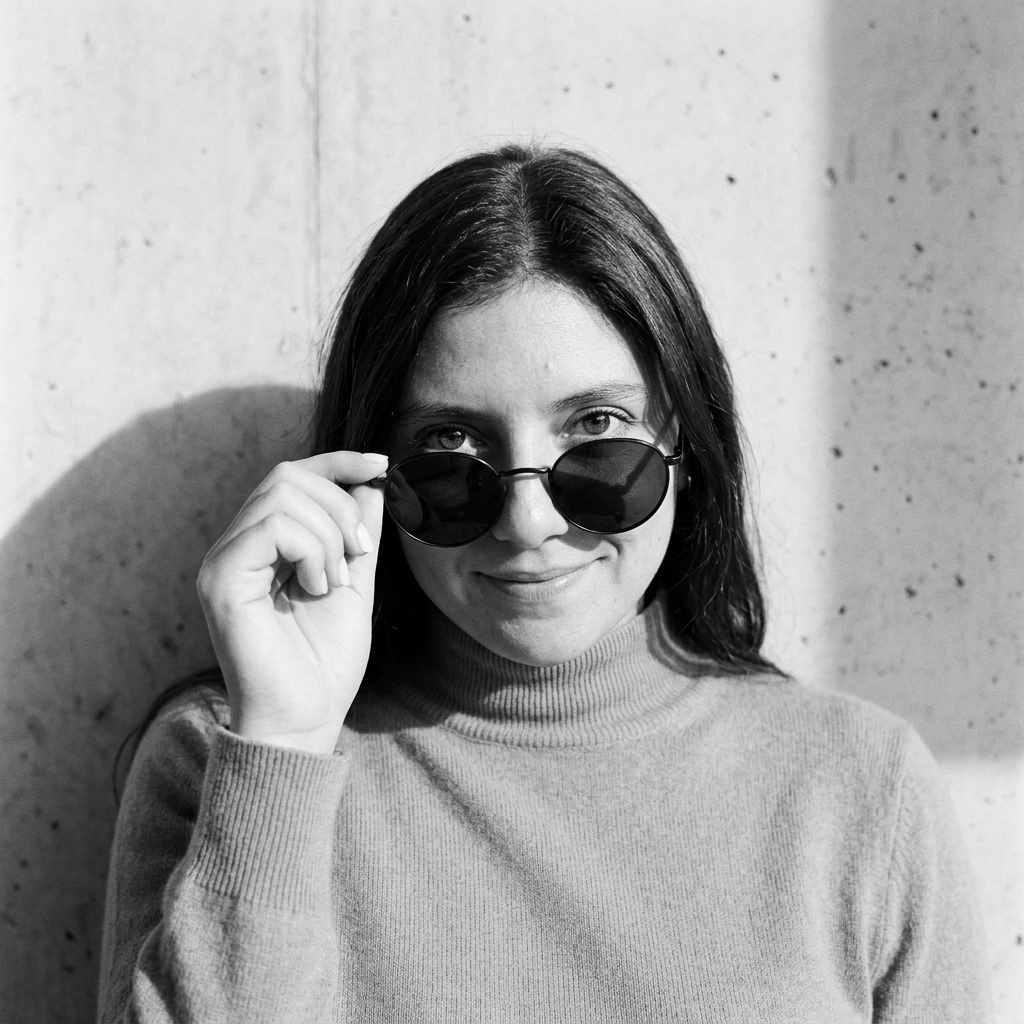
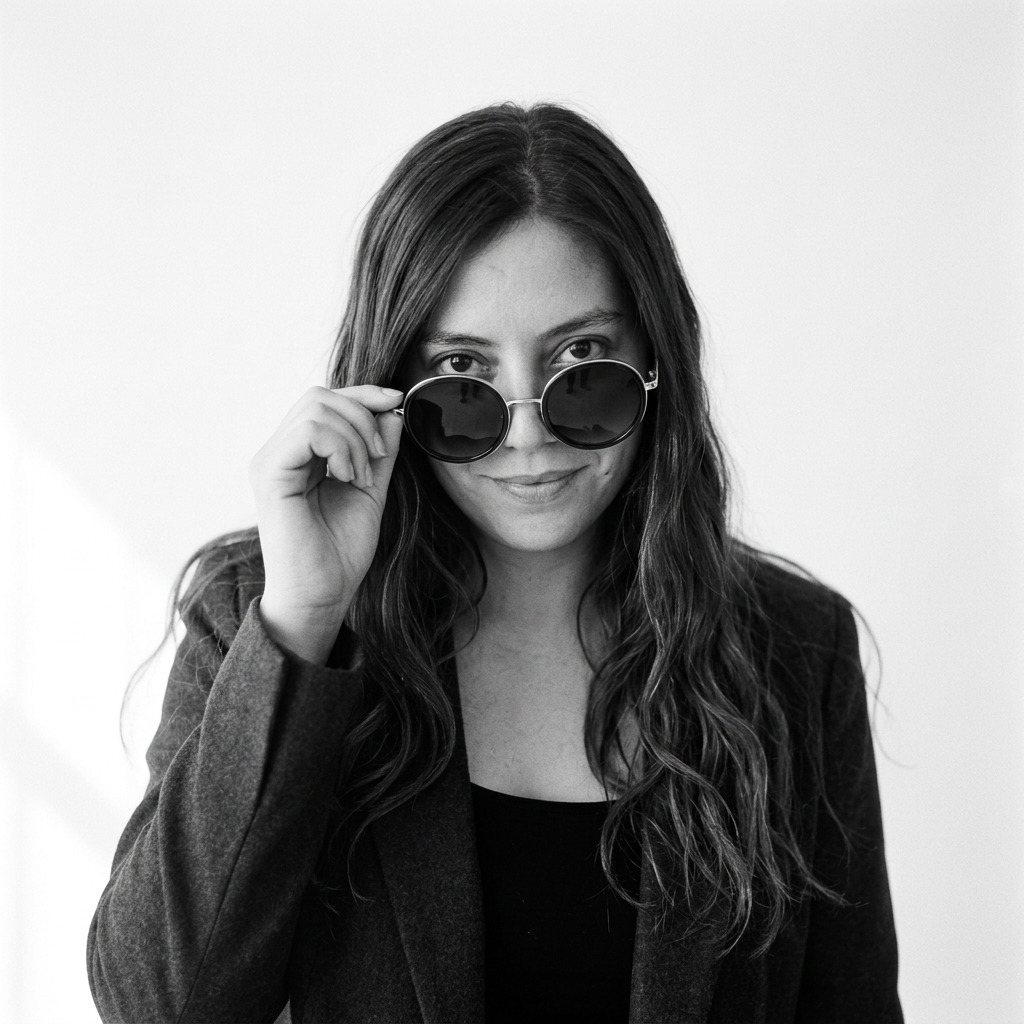
Design: hero card POR LA IGLESIA badge matches sketch layout

diff --git a/index.html b/index.html
@@ -315,7 +315,16 @@
 
             <!-- The Invitation Card -->
             <div class="relative z-10 w-full max-w-md mx-auto bg-white/95 backdrop-blur shadow-2xl border flex flex-col items-center border-gray-200 px-10 py-16 text-center reveal">
-                <p class="font-handwriting text-4xl md:text-5xl text-charcoal mb-8 mt-4">¡Nos casamos!</p>
+                <!-- "¡Nos casamos!" + POR LA IGLESIA badge — layout matching sketch -->
+                <div class="w-full mb-8 mt-2 text-left relative">
+                    <p class="font-handwriting text-4xl md:text-5xl text-charcoal leading-tight mb-1 text-center">¡Nos casamos!</p>
+                    <!-- Badge + underline: aligned to end of text like sketch -->
+                    <div class="flex items-center gap-0 justify-end pr-0">
+                        <div class="flex-1 h-[1px] bg-charcoal/20"></div>
+                        <span class="font-sans text-[8px] font-bold tracking-[0.25em] uppercase bg-charcoal text-red-400 px-3 py-[5px] shrink-0 ml-2">Por la iglesia</span>
+                        <div class="w-6 h-[1px] bg-charcoal/20"></div>
+                    </div>
+                </div>
                 
                 <h1 class="font-serif text-5xl md:text-6xl text-charcoal mb-2 tracking-tight leading-none uppercase">Felipe</h1>
                 <div class="font-handwriting text-2xl text-gray-400 my-2">&</div>
@@ -346,10 +355,6 @@
                         <p class="font-sans text-xs text-gray-600">Chicureo</p>
                     </div>
                 </div>
-
-                <!-- Subtitle overlaying the corner -->
-                <div class="absolute bottom-6 right-8">
-                    <span class="font-sans text-[10px] uppercase tracking-[0.2em] italic text-charcoal/60 border-b border-charcoal/40 pb-1">Por la iglesia</span>
                 </div>
             </div>
         </section>
